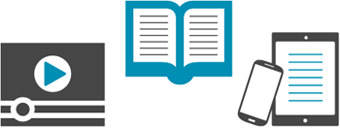
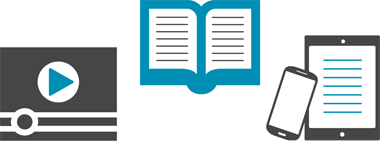
updated tour slides and high quality images.

diff --git a/emas/theme/static/css/styles.css b/emas/theme/static/css/styles.css
@@ -908,27 +908,25 @@ h2.spacing {
 .next-button,
 .prev-button {
     width: 60px;
-    height: 26px;
+    height: 20px;
     display: inline-block;
     border: 1px #000 solid;
     cursor: pointer;
     z-index: 2;
     position: absolute;    
-    bottom : 15px;
-    margin: 2px;
-    padding-top: 4px;
+    bottom : 10px;
+    margin: 1px;
+    padding-bottom: 2px;
     text-align: center;
     vertical-align: center;
 }
 
 .next-button {
-    float: right;
-    right: 20px
+    right: 10px
 }
 
 .prev-button {
-    float: left;
-    left: 20px;    
+    left: 10px;    
 }
 
 .width160 {
@@ -996,12 +994,12 @@ h2.spacing {
 }
 
 #slide0-text1 {
-    width: 340px;
+    width: 380px;
     height: 14px;
     position: absolute;
     top: 20px;
     left: 20px;    
-    font: 400 13px/100% Arial,Helvetica,sans-serif;
+    font: 400 14px/100% Arial,Helvetica,sans-serif;
     text-align: center;
 }
 
@@ -1010,8 +1008,8 @@ h2.spacing {
     height: 14px;
     position: absolute;
     top: 40px;
-    left: 55px; 
-    font: 400 13px/100% Arial,Helvetica,sans-serif;
+    left: 65px; 
+    font: 400 14px/100% Arial,Helvetica,sans-serif;
 }
 
 #slide0-text3 {
@@ -1019,14 +1017,14 @@ h2.spacing {
     height: 14px;
     position: absolute;
     top: 80px;
-    left: 55px; 
-    font: 400 13px/100% Arial,Helvetica,sans-serif;
+    left: 65px; 
+    font: 400 14px/100% Arial,Helvetica,sans-serif;
 }
 
 #howitworks-img {
     position: absolute;
-    top: 115px;
-    left: 110px;
+    top: 120px;
+    left: 130px;
     background: url("../images/howitworks.png");
     height: 96px;	
     width: 194px;
@@ -1051,30 +1049,34 @@ h2.spacing {
     width: 340px;
     height: 14px;
     position: absolute;
-    top: 40px;
-    left: 20px;
-    font: 400 13px/100% Arial,Helvetica,sans-serif;
+    top: 30px;
+    left: 40px;
+    font: 400 14px/100% Arial,Helvetica,sans-serif;
     text-align: center;
+    line-height: 130%;
 }
 
 #dashboard-img {
     position: absolute;
-    top: 95px;
-    left: 50px;
+    top: 88px;
+    left: 30px;
     background: url("../images/dashboard.png");
-    height: 96px;	
-    width: 271px;
+    height: 125px;	
+    width: 350px;
     margin: 1px;
     display: block;
 }
 
 .dashboard.homebutton {
     background: #6fb52e;
-    width: 210px;
+    width: 290px;
+    height: 32px;
     margin: 0px;
     position: absolute;
-    left: 80px;
-    bottom: 20px;
+    left: 60px;
+    bottom: 25px;
+    font: 700 20px/100% Arial,Helvetica,sans-serif;
+    padding-top: 8px;
 }
 
 input.sign-in.homebutton {
@@ -1130,19 +1132,19 @@ input.sign-in.homebutton {
     height: 14px;
     position: absolute;
     top: 15px;
-    left: 15px;
-    font: 400 13px/100% Arial,Helvetica,sans-serif;
+    left: 35px;
+    font: 400 14px/100% Arial,Helvetica,sans-serif;
     line-height: 130%;
     text-align: center;
 }
 
 #graph-img {
     position: absolute;
-    top: 50px;
+    top: 60px;
     left: 120px;
     background: url("../images/graph.png");
-    height: 124px;	
-    width: 130px;
+    height: 150px;	
+    width: 157px;
     margin: 1px;
     display: block;
 }
@@ -1151,21 +1153,21 @@ input.sign-in.homebutton {
     width: 40px;
     height: 14px;
     position: absolute;
-    top: 195px;
-    left: 120px;
+    top: 230px;
+    left: 130px;
     font: 400 13px/100% Arial,Helvetica,sans-serif;
 }
 
 #demo_answer {
     position: absolute;
-    top: 190px;
-    left: 150px; 
+    top: 225px;
+    left: 160px; 
 }
 
 #tooltip1 {
     z-index: 4;
     position: absolute;
-    top: 115px;
+    top: 150px;
     right: 90px;
     width: 70px;
     height: 70px;
@@ -1179,7 +1181,7 @@ input.sign-in.homebutton {
 #tooltip2 {
     z-index: 4;
     position: absolute;
-    top: 178px;
+    top: 223px;
     right: 10px;
     width: 35px;
     height: 45px;
@@ -1191,12 +1193,12 @@ input.sign-in.homebutton {
 }
 
 #slide2-text {
-    width: 340px;
+    width: 380px;
     height: 14px;
     position: absolute;
     top: 15px;
     left: 15px;
-    font: 400 13px/100% Arial,Helvetica,sans-serif;
+    font: 400 14px/100% Arial,Helvetica,sans-serif;
     line-height: 130%;
     text-align: center;
 }
@@ -1204,10 +1206,10 @@ input.sign-in.homebutton {
 #answer-correct-img,
 #answer-incorrect-img {
     position: absolute;
-    top: 92px;
-    left: 18px;
-    height: 124px;	
-    width: 340px;
+    top: 105px;
+    left: 15px;
+    height: 138px;	
+    width: 380px;
     margin: 1px;
 } 
 
@@ -1220,89 +1222,89 @@ input.sign-in.homebutton {
 }
 
 #slide3-text {
-    width: 340px;
+    width: 380px;
     height: 14px;
     position: absolute;
     top: 15px;
     left: 15px;
-    font: 400 13px/100% Arial,Helvetica,sans-serif;
+    font: 400 14px/100% Arial,Helvetica,sans-serif;
     line-height: 130%;
     text-align: center;
 }
 
 #learners-dashboard-img {
     position: absolute;
-    top: 92px;
-    left: 18px;
+    top: 105px;
+    left: 15px;
     background: url("../images/learnersdashboard.png");
-    height: 120px;	
-    width: 340px;
+    height: 150px;	
+    width: 380px;
     margin: 1px;
     display: block;
 }
 
 #slide4-text {
-    width: 330px;
+    width: 390px;
     height: 14px;
     position: absolute;
     top: 15px;
-    left: 25px;
-    font: 400 13px/100% Arial,Helvetica,sans-serif;
+    left: 15px;
+    font: 400 14px/100% Arial,Helvetica,sans-serif;
     line-height: 130%;
     text-align: center;
 }
 
 #teachers-dashboard-img {
     position: absolute;
-    top: 102px;
-    left: 18px;
+    top: 115px;
+    left: 15px;
     background: url("../images/teachersdashboard.png");
-    height: 120px;	
-    width: 340px;
+    height: 146px;	
+    width: 380px;
     margin: 1px;
     display: block;
 }
 
 #slide5-text {
-    width: 360px;
+    width: 380px;
     height: 14px;
     position: absolute;
     top: 15px;
     left: 10px;
-    font: 400 13px/100% Arial,Helvetica,sans-serif;
+    font: 400 14px/100% Arial,Helvetica,sans-serif;
     line-height: 130%;
     text-align: center;
 }
 
 #textbooks-img {
     position: absolute;
-    top: 92px;
+    top: 105px;
     left: 15px;
     background: url("../images/textbooks.png");
-    height: 120px;	
-    width: 340px;
+    height: 143px;	
+    width: 380px;
     margin: 1px;
     display: block;
 }
 
 #slide6-text {
-    width: 370px;
+    width: 390px;
     height: 14px;
     position: absolute;
     top: 15px;
-    left: 0px;
-    font: 400 13px/100% Arial,Helvetica,sans-serif;
+    left: 10px;
+    font: 400 14px/100% Arial,Helvetica,sans-serif;
     line-height: 130%;
     text-align: center;
 }
 
 #media-img {
     position: absolute;
-    top: 75px;
+    top: 95px;
     left: 15px;
     background: url("../images/media.png");
-    height: 128px;	
-    width: 340px;
+    height: 141px;	
+    width: 380px;
     margin: 1px;
     display: block;
 }
